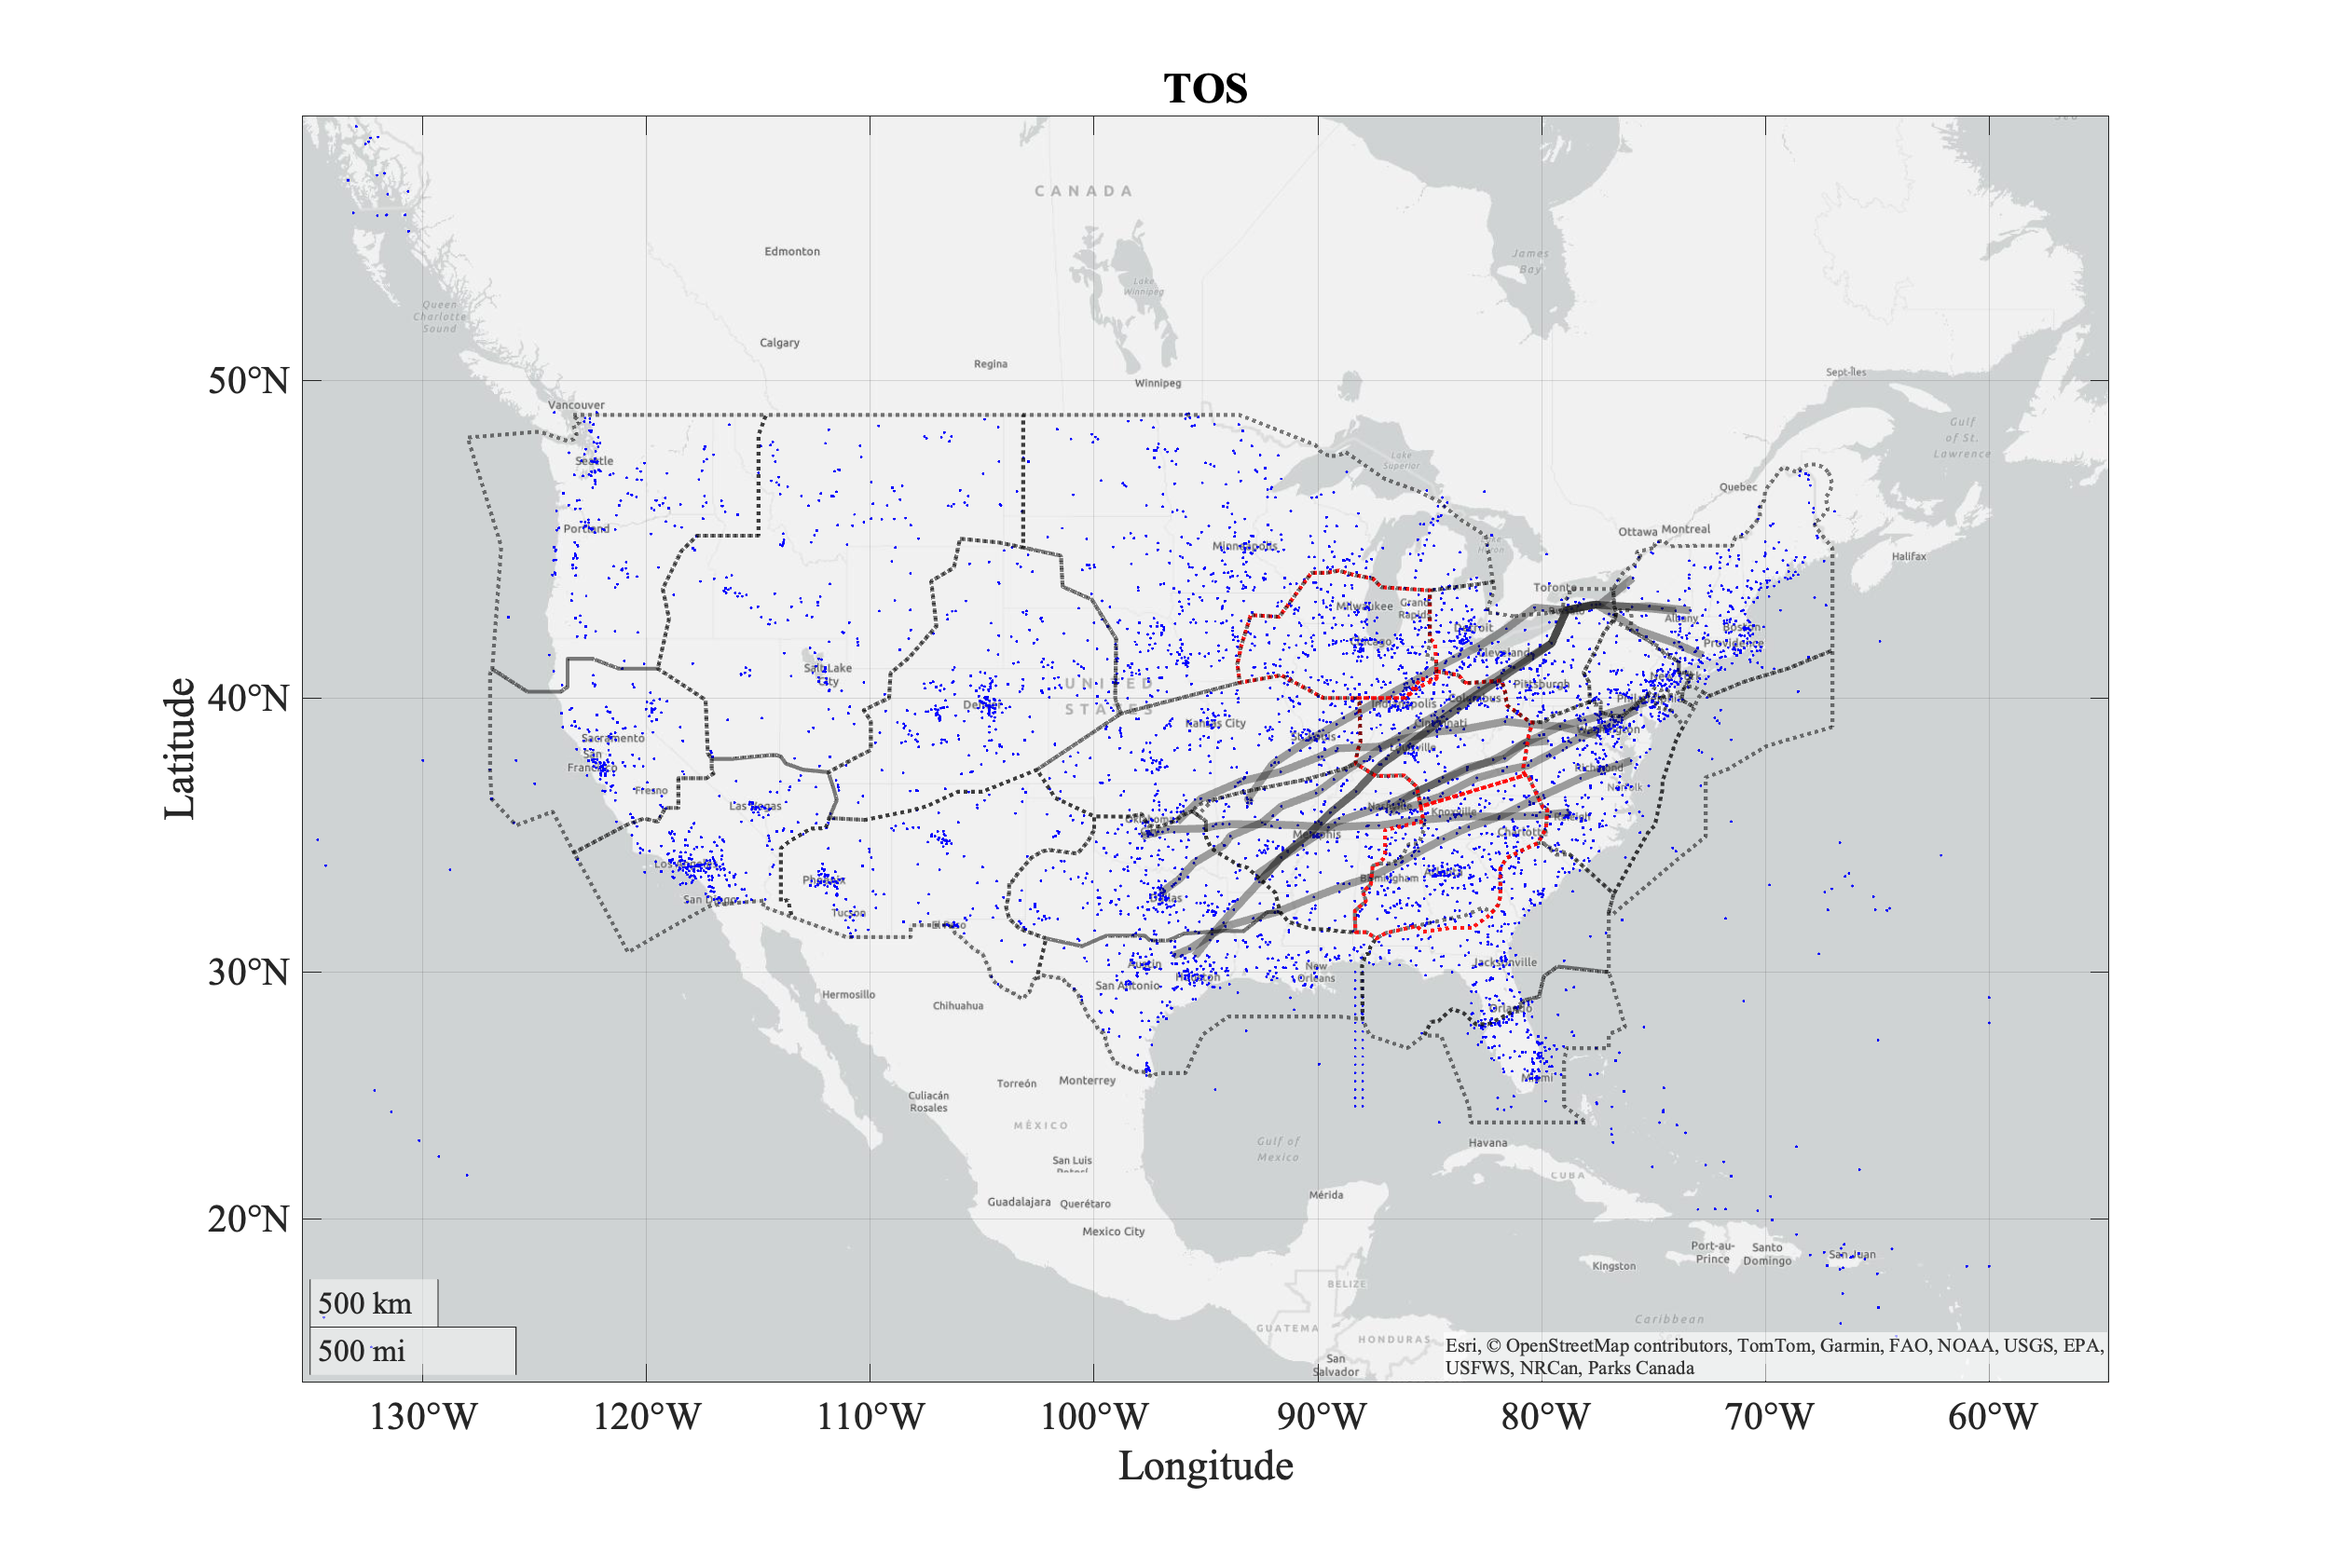
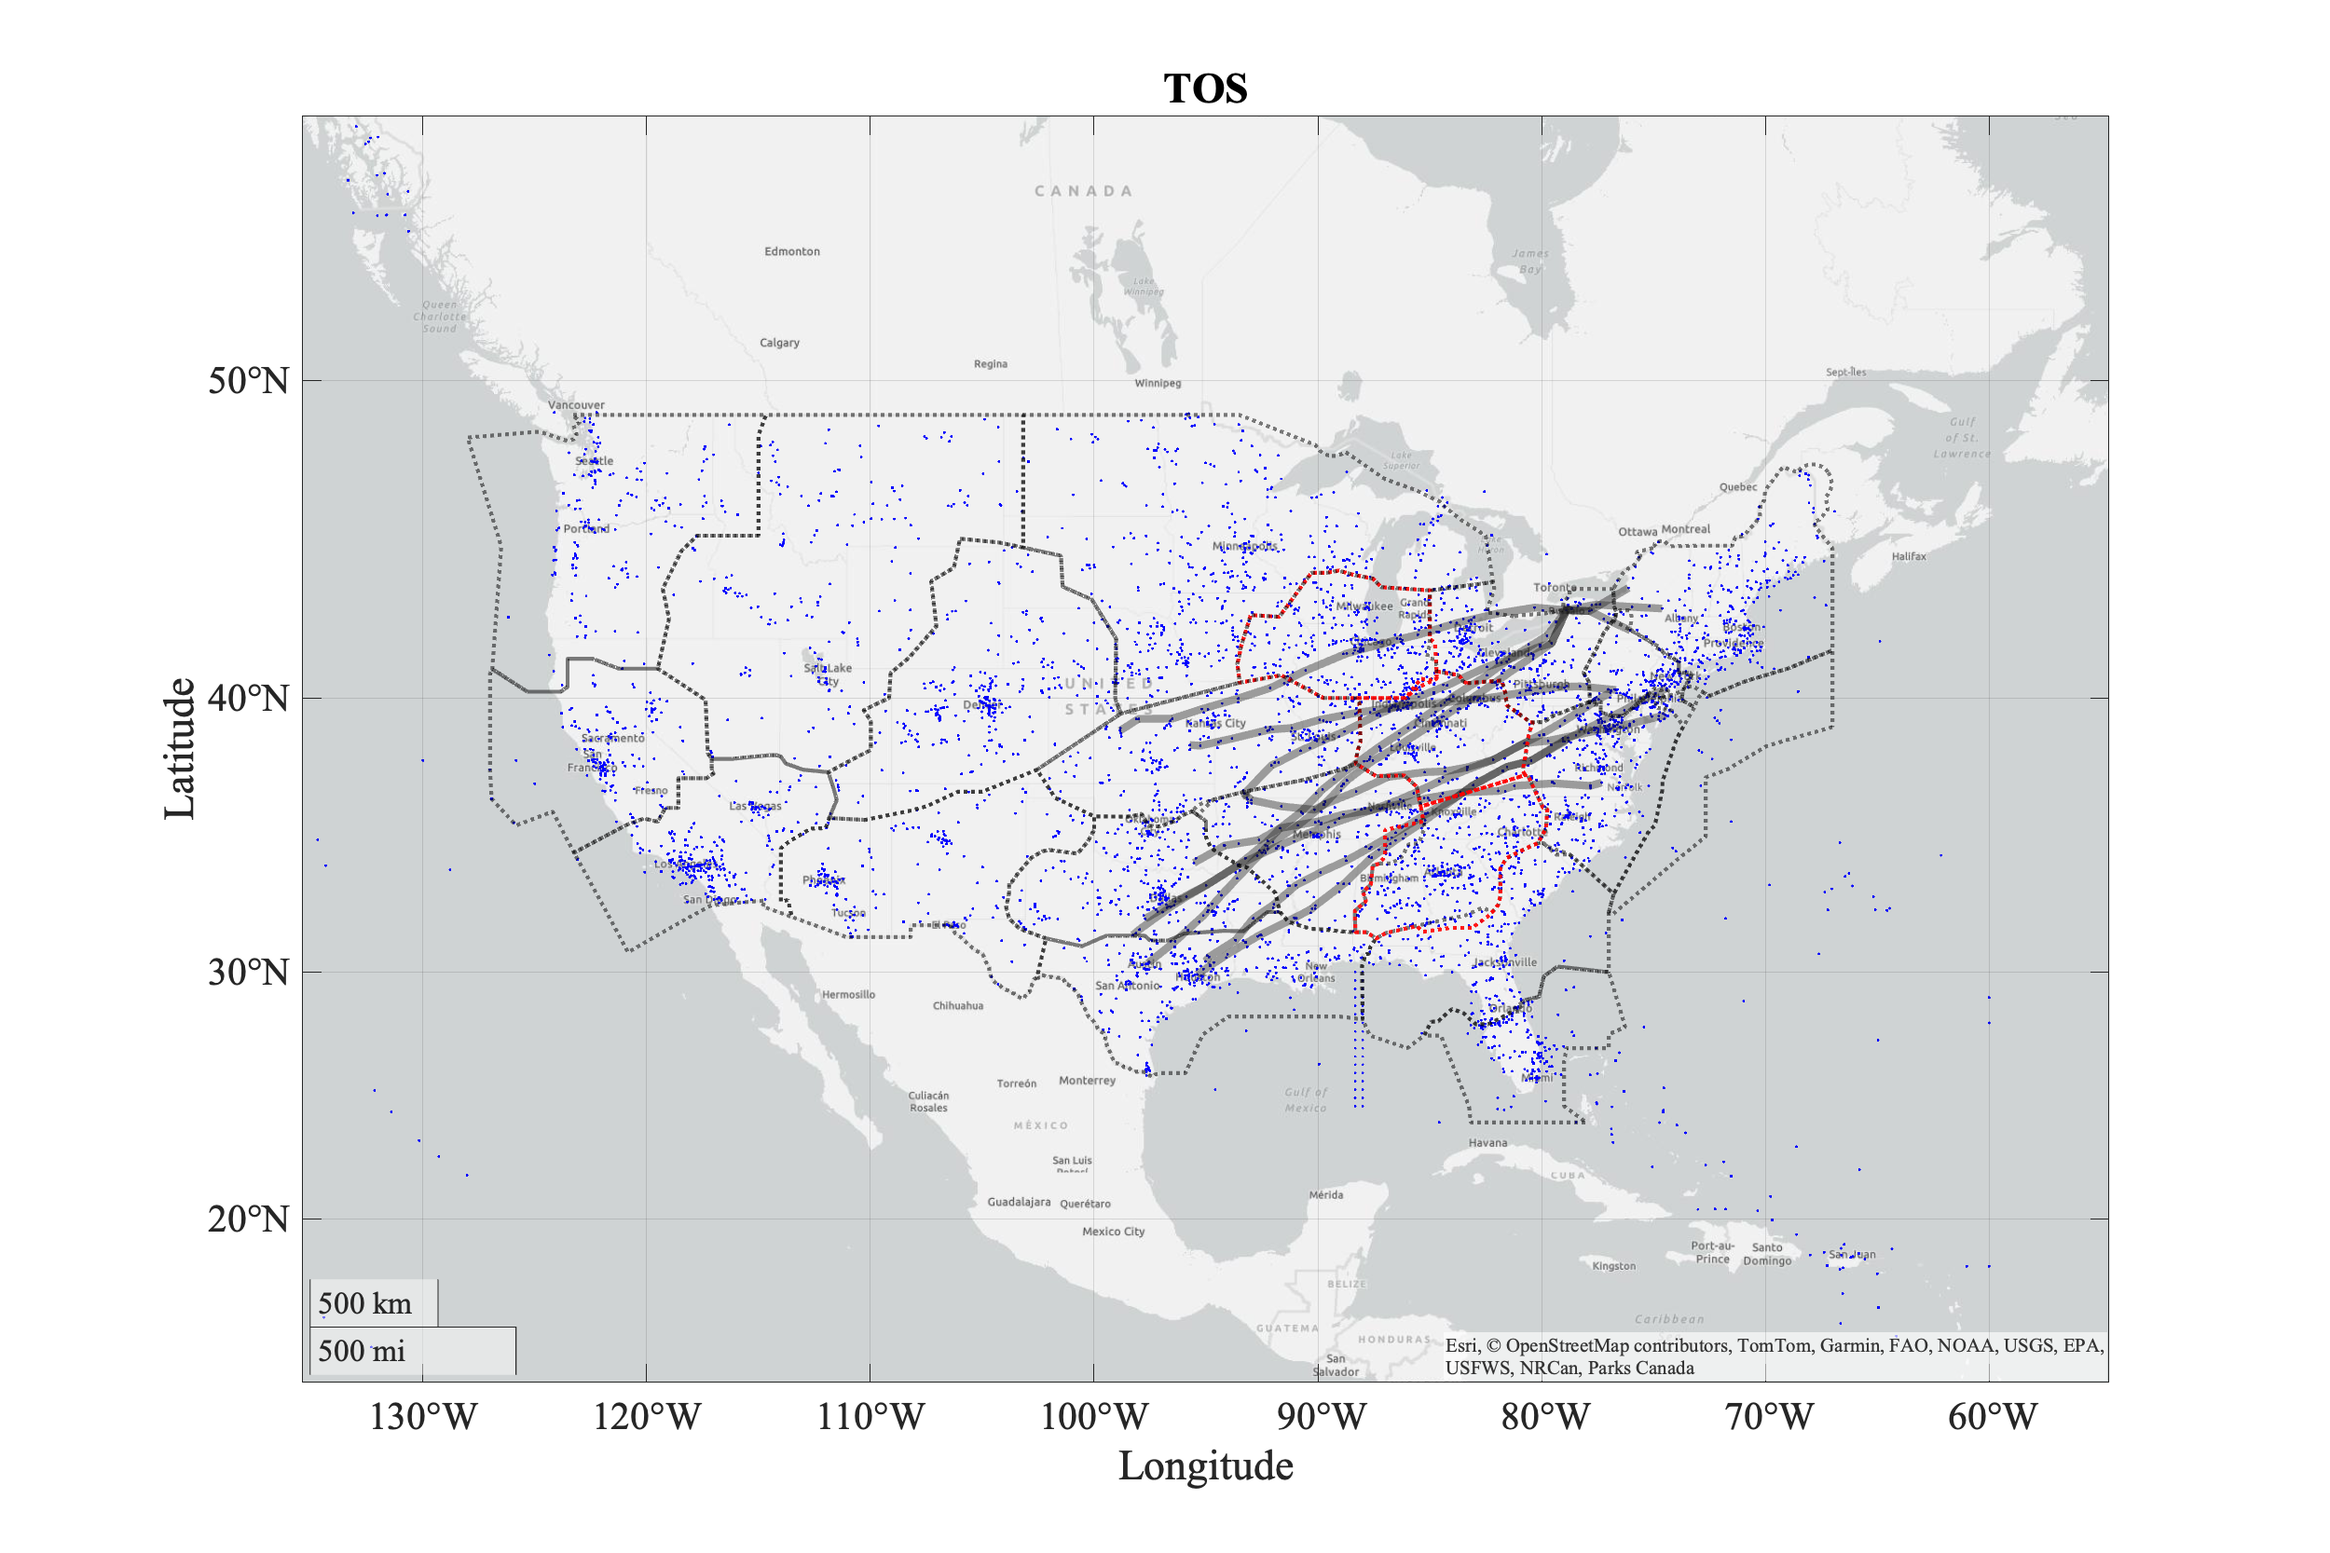
filter flights

Changed region(s): [[0.4992, 0.3743, 0.7176, 0.6239]]

diff --git a/MAT_devel/TACo.m b/MAT_devel/TACo.m
@@ -1,9 +1,72 @@
-n  = 3;
-m = 3;
-C = rand(n,m); % Cost matrix
+function outcome = TACo(C, b, d0, gamma, epsilon)
+% Inputs:
+%   C      : [n x m] cost matrix
+%   b      : [n x 1] private valuations
+%   d0     : initial trading unit (scalar)
+%   gamma  : trading unit reduction factor (0 < gamma < 1)
+%   epsilon: convergence threshold
 
-P = zeros(n,m); % Pay matrix
-O = zeros(n,m); % Offer matrix
-b = rand(n,1); % valuation vector;
+[n, m] = size(C);
+O = zeros(n, m);           % Offer matrix
+P = zeros(n, m);           % Pay matrix
+d = d0;                    % Trading unit
+isConverged = false;       % Termination flag
+selections = zeros(n, 1);  % Track each agent's latest choice
+recordedStates = {};       % For cycle detection
+agentOrder = 1:n;          % Fixed sequential agent order
+step = 0;                  % Step counter
 
-%% Run TACo
+fprintf(' Step | Agent |   O   |   P   |     J (profit matrix)     | Selections\n');
+fprintf('--------------------------------------------------------------------------\n');
+
+while ~isConverged
+    step = step + 1;
+    i = agentOrder(mod(step-1, n) + 1);  % Sequential agent
+    
+    % --- Profit computation ---
+    J = b(i) * (O(i,:) - P(i,:)) - C(i,:);   % Profit vector for agent i
+    [~, j_star] = max(J);                   % Best choice for agent i
+    
+    % --- Update matrices ---
+    P(i, j_star) = P(i, j_star) + n * d;     % Agent i pays
+    O(:, j_star) = O(:, j_star) + d;        % Everyone receives offer
+    selections(i) = j_star;                 % Update selection
+    
+    % --- Display formatted output ---
+    fprintf('  %2d   |   %d    | ', step, i);
+    fprintf('[%s] | ', strjoin(arrayfun(@(x) sprintf('%d', x), O(i,:), 'UniformOutput', false), ' '));
+    fprintf('[%s] | ', strjoin(arrayfun(@(x) sprintf('%d', x), P(i,:), 'UniformOutput', false), ' '));
+    fprintf('[%s] | ', strjoin(arrayfun(@(x) sprintf('%5.1f', x), J, 'UniformOutput', false), ' '));
+    fprintf('[%s]\n', strjoin(arrayfun(@(x) sprintf('%d', x), selections(~isnan(selections)), 'UniformOutput', false), ' '));
+    
+    % --- Cycle detection ---
+    key = [reshape(O - P, 1, []), i];        % Flattened key
+    found = any(cellfun(@(x) isequal(x, key), recordedStates));
+    
+    if found
+        d = gamma * d;                      % Reduce trading unit
+        recordedStates = {};               % Reset recorded states
+        
+        % Check epsilon-termination condition
+        allSatisfied = true;
+        for k = 1:n
+            Jk = b(k) * (O(k,:) - P(k,:)) - C(k,:);
+            if max(Jk) - min(Jk) <= epsilon
+                allSatisfied = false;
+                break;
+            end
+        end
+        
+        if allSatisfied
+            isConverged = true;
+        end
+    end
+    
+    % --- Record new state ---
+    recordedStates{end+1} = key;
+end
+
+% Return most frequently selected outcome
+outcome = mode(selections);
+
+end

diff --git a/selectedPlot.m b/selectedPlot.m
@@ -15,7 +15,7 @@ geoplot(node_coords(:,1), node_coords(:,2), 'b.', 'MarkerSize', 3); % Graph node
 hold on
 
 % Plot multiple paths with different colors
-selectIdx = 1;
+selectIdx = 2;
 selection = selected{selectIdx};
 for k = 1:10
     localSelection = selection(k);
@@ -33,7 +33,7 @@ fir_names = fieldnames(fir);
 fir_num = length(fir_names);
 for i = 1:fir_num
     local_coord = fir.(fir_names{i});
-    if i == 2 || i == 8 || i == 20
+    if i == 2 || i == 8 || i == 20 %12 3 13
         geoplot(local_coord(:,2),local_coord(:,1),':','LineWidth',2,'Color',[1 0 0 0.9])
     else
         geoplot(local_coord(:,2),local_coord(:,1),':','LineWidth',2,'Color',[0 0 0 0.5])
